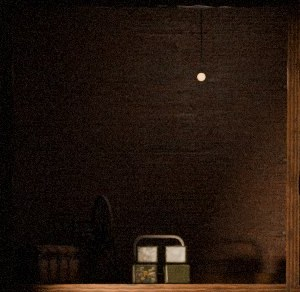
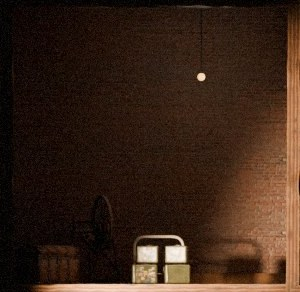
Play view: real brass name plates and padlocks from the render, desk-lamp light in the room pictures
The name plates and padlocks are now the 3D house's own, path-traced and cut out (render.py CUT= and SPRITE=padlock),
lit by their room instead of drawn on top. Room pictures re-rendered with the approved side view's desk lamp, and a
slight lens vignette over the house.

Claude-Session: https://claude.ai/code/session_0175Q8iFfSVh1jG5sAM4FTtJ

Changed region(s): [[0.09, 0.0308, 1.0, 1.0], [0.18, 0.8322, 0.27, 0.8938]]

diff --git a/src/app.js b/src/app.js
@@ -25,8 +25,8 @@ const in3d = () => !FLAT && dh.isReady();
 // The title and the shots between floors stay the live 3D photo camera. ?plates=0 turns the pictures off.
 const PL = { on: !FLAT && !PHOTO && !/[?&]plates=0/.test(location.search), ready: false, img: {} };
 if (PL.on) {
-  const want = ["shell", "wood", ...NAMES.flatMap((n) => [n + "_lit", n + "_dark"])]; let left = want.length;
-  for (const k of want) { const im = new Image(); im.onload = () => { if (--left === 0) PL.ready = true; }; im.onerror = () => { PL.on = false; }; im.src = k === "wood" ? "assets/tex/Wood049/Color.jpg" : `assets/plates/${k}.jpg`; PL.img[k] = im; }
+  const want = ["shell", "wood", "lock_shut", "lock_open", ...NAMES.flatMap((n) => [n + "_lit", n + "_dark", n + "_plate_lit", n + "_plate_dark"])]; let left = want.length;
+  for (const k of want) { const im = new Image(); im.onload = () => { if (--left === 0) PL.ready = true; }; im.onerror = () => { PL.on = false; }; im.src = k === "wood" ? "assets/tex/Wood049/Color.jpg" : `assets/plates/${k}.${/plate_|lock_/.test(k) ? "png" : "jpg"}`; PL.img[k] = im; }
 }
 const plates = () => PL.on && PL.ready && st.scene !== "title" && st.scene !== "floor";
 cv.width = VW * DPR; cv.height = VH * DPR;
@@ -649,7 +649,7 @@ function drawRoom(room, cx, cy, o) {
 // ---------- the photographed rooms ----------
 // One room's picture, lit or dark (cross-faded), turned over with the house; then what changes with the code, drawn
 // where the 3D house has it: doorways in the side posts, the ladder up and its hatch, the hole down, the lock, the page.
-const PS = 3.2 / 150, POST = 0.14 / PS, SLAB = 0.08 / PS, DOORH = 1.5 / PS, LADX = 0.8 / PS;
+const PS = 3.2 / 150, PLATEH = 20, POST = 0.14 / PS, SLAB = 0.08 / PS, DOORH = 1.5 / PS, LADX = 0.8 / PS;
 function drawPlate(room, cx, cy, o, gx, gy) {
   const lit = roomLit(room, o), shHere = st.shadow.mode !== "sleep" && st.shadow.id === room.id;
   ctx.save(); ctx.beginPath(); ctx.rect(cx, cy, CW, CH); ctx.clip();
@@ -685,18 +685,15 @@ function drawPlate(room, cx, cy, o, gx, gy) {
   if (up) { ladder(lx, cyT - (upJ ? SLAB + 2 : 0), fy, L); if (!upJ) planks(lx, cyT + 1, L); else { ctx.fillStyle = "rgba(4,3,6,0.9)"; ctx.fillRect(lx - 14, cy - 1, 28, SLAB + 1); } }
   if (room.down) { ctx.fillStyle = "rgba(4,3,6,0.9)"; ctx.fillRect(lx - 14, fy, 28, SLAB + 1); if (downJ) ladder(lx, fy - 16, cy + CH + 1, L, true); else planks(lx, fy - 3, L); }
   ctx.restore();
-  // the brass name plate on the floor's front edge (as on the 3D house: it stays put when the room turns over)
-  { ctx.save(); ctx.font = `9px "IM Fell English SC", Georgia, serif`; const tw = ctx.measureText(room.name).width + 14, h = 11, h2 = [...room.name].reduce((a, ch) => (a * 31 + ch.charCodeAt(0)) % 9973, 7);
-    const nx = cx + CW / 2 + ((h2 >> 3) % 9 - 4) * 0.09 / PS - tw / 2, ny = cy + CH - 0.17 / PS - h / 2, k = 0.3 + 0.35 * L; // (lit by the room, not a label on the screen)
-    ctx.translate(nx + tw / 2, ny + h / 2); ctx.rotate(((room.name.length * 5) % 7 - 3) * 0.012); ctx.translate(-tw / 2, -h / 2);
-    const g = ctx.createLinearGradient(0, 0, 0, h); g.addColorStop(0, shade([200, 178, 120], k)); g.addColorStop(0.5, shade([150, 128, 78], k)); g.addColorStop(1, shade([96, 78, 42], k));
-    ctx.fillStyle = "rgba(0,0,0,0.5)"; ctx.fillRect(1, 1.5, tw, h); ctx.fillStyle = g; ctx.beginPath(); ctx.roundRect(0, 0, tw, h, 1.5); ctx.fill();
-    ctx.fillStyle = "rgba(30,22,10,0.8)"; for (const sx of [3, tw - 3]) { ctx.beginPath(); ctx.arc(sx, h / 2, 1, 0, 7); ctx.fill(); }
-    ctx.textAlign = "center"; ctx.fillStyle = "rgba(255,240,200,0.25)"; ctx.fillRect(2, 1, tw - 4, 0.8);
-    ctx.fillStyle = `rgba(48,34,14,${0.75 + 0.2 * k})`; ctx.fillText(room.name, tw / 2, h - 2.6); ctx.restore(); }
-  if (room.lines.some((l) => l.kind === "lock")) {
-    const px = cx + CW * 0.3, py = cy + CH * 0.42, col = st.unlocked ? GRN : RED;
-    glows.push(() => padlock(px, py, col, 8 + 4 * Math.sin(st.t * 4))); padlock(px, py, col, 6);
+  // the brass name plate on the floor's front edge: the 3D house's own, path-traced and cut out, lit by its room
+  // (it stays put when the room turns over)
+  ctx.drawImage(PL.img[room.name + "_plate_dark"], cx, cy + CH - PLATEH, CW, PLATEH);
+  if (lit > 0) { ctx.globalAlpha = lit; ctx.drawImage(PL.img[room.name + "_plate_lit"], cx, cy + CH - PLATEH, CW, PLATEH); ctx.globalAlpha = 1; }
+  if (room.lines.some((l) => l.kind === "lock")) { // the 3D house's brass padlock on the back wall (path-traced), with its enamel's glow
+    const op = st.unlocked, px = cx + CW / 2 + 0.5 / PS, py = cy + CH - (op ? 1.273 : 1.225) / PS, w = 0.7 / PS, col = op ? "120,230,140" : "255,80,64";
+    ctx.save(); ctx.globalCompositeOperation = "lighter"; const g = ctx.createRadialGradient(px, py, 2, px, py, 26); g.addColorStop(0, `rgba(${col},${0.35 + 0.15 * Math.sin(st.t * 4)})`); g.addColorStop(1, `rgba(${col},0)`);
+    ctx.fillStyle = g; ctx.fillRect(px - 28, py - 28, 56, 56); ctx.restore();
+    ctx.drawImage(PL.img[op ? "lock_open" : "lock_shut"], px - w / 2, py - w / 2, w, w);
   }
   if (st.page.id === room.id && !st.page.got) {
     const px = cx + CW * 0.36, py = fy - 4, k = 0.6 + 0.4 * Math.sin(st.t * 3 + 1);
@@ -736,6 +733,8 @@ function plateLight() {
   if (st.scene !== "end") { const g = ctx.createRadialGradient(px, py, 0, px, py, 90); g.addColorStop(0, `rgba(${hot},0.32)`); g.addColorStop(1, `rgba(${hot},0)`); ctx.fillStyle = g; ctx.fillRect(px - 100, py - 100, 200, 200); }
   if (f > 0) { ctx.fillStyle = `rgba(170,190,240,${0.35 * f})`; ctx.fillRect(HX, HY, HW, HH); }
   ctx.restore();
+  // the lens: corners a little darker, as in the photographed still (the room pictures are cut without it)
+  const v = ctx.createRadialGradient(HCX, HCY, 120, HCX, HCY, 520); v.addColorStop(0, "rgba(0,0,0,0)"); v.addColorStop(1, "rgba(0,0,0,0.32)"); ctx.fillStyle = v; ctx.fillRect(HX, HY, HW, HH);
 }
 // a padlock hanging on the back wall: shackle, body, keyhole. Open (green) lifts its shackle.
 function padlock(x, y, col, blur) {

diff --git a/test/page.test.js b/test/page.test.js
@@ -972,19 +972,19 @@ test("the photographed house: each room's picture sits in its slot, slides with 
   try {
     await page.waitForFunction(() => { const D = window.__dh; D.begin(); return D.plates(); }, null, { timeout: 30000 });
     const grab = () => page.evaluate(() => {
-      const D = window.__dh, P = CanvasRenderingContext2D.prototype, di = P.drawImage, ft = P.fillText, imgs = [], txt = [];
-      P.drawImage = function (im, ...a) { const m = this.getTransform(); if (im && im.src && /plates\/\w+_(lit|dark)\.jpg/.test(im.src)) imgs.push({ k: im.src.match(/plates\/(\w+)_(lit|dark)/).slice(1), x: m.a * a[0] + m.e, y: m.d * a[1] + m.f, sy: m.d }); return di.call(this, im, ...a); };
+      const D = window.__dh, P = CanvasRenderingContext2D.prototype, di = P.drawImage, ft = P.fillText, imgs = [], txt = [], plates = [];
+      P.drawImage = function (im, ...a) { const m = this.getTransform(); if (im && im.src && /plates\/\w+_plate_dark\.png/.test(im.src)) plates.push(im.src.match(/plates\/(\w+)_plate_dark/)[1]); if (im && im.src && /plates\/\w+_(lit|dark)\.jpg/.test(im.src)) imgs.push({ k: im.src.match(/plates\/(\w+)_(lit|dark)/).slice(1), x: m.a * a[0] + m.e, y: m.d * a[1] + m.f, sy: m.d }); return di.call(this, im, ...a); };
       P.fillText = function (t, ...a) { txt.push(String(t)); return ft.call(this, t, ...a); };
       try { D.render(); } finally { P.drawImage = di; P.fillText = ft; }
       const st = D.st(), k = document.getElementById("game").width / 960;
-      return { imgs: imgs.map((i) => ({ ...i, x: i.x / k, y: i.y / k, sy: i.sy / k })), txt, g: st.g.map((r) => r.map((x) => ({ id: x.id, name: x.name, l: x.l }))) };
+      return { imgs: imgs.map((i) => ({ ...i, x: i.x / k, y: i.y / k, sy: i.sy / k })), txt, plates, g: st.g.map((r) => r.map((x) => ({ id: x.id, name: x.name, l: x.l }))) };
     });
     const at = (f, name) => f.imgs.filter((i) => i.k[0] === name && i.k[1] === "dark").map((i) => [Math.round(i.x), Math.round(i.y), Math.sign(i.sy)]);
     const a = await grab();
     for (let y = 0; y < 3; y++) for (let x = 0; x < 4; x++) {
       const r = a.g[y][x], cell = [44 + x * 150, 74 + y * 146];
       assert.deepEqual(at(a, r.name), [[cell[0], cell[1], 1]], `${r.name}'s picture is in its own slot`);
-      assert.equal(a.txt.filter((t) => t === r.name).length, 1, `${r.name}'s plate is written once`);
+      assert.equal(a.plates.filter((t) => t === r.name).length, 1, `${r.name}'s name plate is drawn once`);
     }
     // a row slides east: once it settles, each of its rooms' pictures is one slot along (the end one wraps round)
     const row = await page.evaluate(() => { const D = window.__dh, st = D.st(), p = D.find(st.g, st.player.id), li = D.byId(st.g, st.player.id).lines.findIndex((l) => l.kind === "row"); if (li < 0) return null; D.edit(li, 1); D.tick(1 / 60, 150); return p.y; });

diff --git a/src/dollhouse.js b/src/dollhouse.js
@@ -352,7 +352,7 @@ function buildVary(g, room, v) {
 function boards(parent, y) { for (const dz of [-0.2, 0, 0.2]) { const b = box(0.74, 0.04, 0.17, M.ladder, LADDER_X, y, -0.25 + dz, parent); b.rotation.y = dz * 0.15; } }
 // a brass padlock hung on the back wall; its enamel badge is red while locked, green once open
 function padlock(open) {
-  const g = new THREE.Group();
+  const g = new THREE.Group(); g.name = "padlock";
   const body = box(0.24, 0.2, 0.08, M.brass, 0, 0, 0, g, true);
   const badge = new THREE.Mesh(new THREE.CircleGeometry(0.055, 20), new THREE.MeshStandardMaterial({ color: open ? 0x2f8a3a : 0xb3261e, emissive: open ? 0x2f8a3a : 0xb3261e, emissiveIntensity: 0.6, roughness: 0.3 }));
   badge.position.set(0, 0, 0.041); g.add(badge);

diff --git a/tools/render/render.py b/tools/render/render.py
@@ -110,25 +110,42 @@ sc.render.engine = 'CYCLES'; sc.cycles.device = 'CPU'; sc.cycles.samples = S; sc
 sc.cycles.max_bounces = 6; sc.render.resolution_x = W; sc.render.resolution_y = H; sc.render.resolution_percentage = 100
 sc.view_settings.view_transform = 'AgX'; sc.view_settings.look = 'AgX - Medium High Contrast'; sc.view_settings.exposure = 0
 sc.render.filepath = out; sc.render.threads_mode = 'AUTO'
-if os.environ.get('SPRITE'):  # SPRITE=1: the peg doll alone, cut out (RGBA, the rest of the house kept as a holdout for its light
-    # and shadow), straight on and turned: out_front.png, out_right.png, out_left.png, out_back.png (the turns figure() uses)
+if os.environ.get('SPRITE'):  # one thing alone, cut out (RGBA; the rest of the house stays as a holdout, for its light and
+    # shadow). SPRITE=doll or shadow: the peg doll or the hooded thing, straight on and turned (out_front/right/left/back.png,
+    # the turns figure() uses); SPRITE=padlock: the first padlock, straight on (out.png)
     def kids(o): return [o] + [k for c in o.children for k in kids(c)]
-    roots = [o for o in sc.objects if o.name.split('.')[0] == 'fig' and (o.parent is None or o.parent.name.split('.')[0] != 'fig')]
+    def base(o): return o.name.split('.')[0]
     def box(r):
         pts = [o.matrix_world @ mathutils.Vector(v) for o in kids(r) if o.type == 'MESH' for v in o.bound_box]
         return mathutils.Vector([min(p[i] for p in pts) for i in range(3)]), mathutils.Vector([max(p[i] for p in pts) for i in range(3)])
-    doll = min((r for r in roots if any(o.type == 'MESH' for o in kids(r))), key=lambda r: (box(r)[1] - box(r)[0]).z)
-    mine = {o.name for o in kids(doll)}
+    kind = os.environ['SPRITE']; want = 'padlock' if kind == 'padlock' else 'fig'
+    roots = [o for o in sc.objects if base(o) == want and (o.parent is None or base(o.parent) != want) and any(k.type == 'MESH' for k in kids(o))]
+    hgt = lambda r: (box(r)[1] - box(r)[0]).z
+    one = roots[0] if kind == 'padlock' else (min if kind in ('doll', '1') else max)(roots, key=hgt)
+    mine = {o.name for o in kids(one)}
     for o in sc.objects:
         if o.type == 'MESH' and o.name not in mine: o.is_holdout = True
     sc.render.film_transparent = True; sc.render.image_settings.color_mode = 'RGBA'; sc.render.image_settings.file_format = 'PNG'
-    lo, hi = box(doll); ctr = (lo + hi) / 2; wd = float(os.environ.get('SPRITE_W', '1.5'))
+    lo, hi = box(one); ctr = (lo + hi) / 2; wd = float(os.environ.get('SPRITE_W', '0.7' if kind == 'padlock' else '1.5' if kind in ('doll', '1') else '2.2'))
     c.data.type = 'ORTHO'; c.data.ortho_scale = wd; c.data.sensor_fit = 'HORIZONTAL'; c.data.dof.use_dof = False
-    c.rotation_mode = 'XYZ'; c.rotation_euler = (math.pi / 2, 0, 0); c.location = (ctr.x, -40, lo.z - 0.05 + wd / 2)
-    doll.rotation_mode = 'XYZ'; z0 = doll.rotation_euler.z
-    for tag, a in (('front', 0), ('right', 0.8 * math.pi / 2), ('left', -0.8 * math.pi / 2), ('back', math.pi)):
-        doll.rotation_euler.z = z0 + a; sc.render.filepath = out.replace('.png', '_' + tag + '.png')
-        t0 = time.time(); bpy.ops.render.render(write_still=True); print('sprite', tag, round(time.time() - t0), 's', flush=True)
-    print('sprite at', tuple(round(v, 3) for v in ctr), 'base z', round(lo.z, 3), flush=True)
+    c.rotation_mode = 'XYZ'; c.rotation_euler = (math.pi / 2, 0, 0); c.location = (ctr.x, -40, ctr.z if kind == 'padlock' else lo.z - 0.05 + wd / 2)
+    turns = (('', 0),) if kind == 'padlock' else (('_front', 0), ('_right', 0.8 * math.pi / 2), ('_left', -0.8 * math.pi / 2), ('_back', math.pi))
+    one.rotation_mode = 'XYZ'; z0 = one.rotation_euler.z
+    for tag, a in turns:
+        one.rotation_euler.z = z0 + a; sc.render.filepath = out.replace('.png', tag + '.png')
+        t0 = time.time(); bpy.ops.render.render(write_still=True); print('sprite', kind, tag, round(time.time() - t0), 's', flush=True)
+    print('sprite at', tuple(round(v, 3) for v in ctr), 'base z', round(lo.z, 3), 'size', tuple(round(v, 3) for v in hi - lo), flush=True)
+elif os.environ.get('CUT'):  # CUT=name: render once without those objects (out.png), then them alone, cut out, lit and shadowed
+    # by the house around them (out_cut.png: RGBA, the rest kept as a holdout)
+    def kids(o): return [o] + [k for c in o.children for k in kids(c)]
+    want = os.environ['CUT']; cut = {k.name for o in sc.objects if o.name.split('.')[0] == want for k in kids(o)}
+    for o in sc.objects:
+        if o.name in cut: o.hide_render = True
+    t0 = time.time(); bpy.ops.render.render(write_still=True); print('render', round(time.time() - t0), 's', flush=True)
+    for o in sc.objects:
+        if o.name in cut: o.hide_render = False
+        elif o.type == 'MESH': o.is_holdout = True
+    sc.render.film_transparent = True; sc.render.image_settings.color_mode = 'RGBA'; sc.render.filepath = out.replace('.png', '_cut.png')
+    t0 = time.time(); bpy.ops.render.render(write_still=True); print('cut', round(time.time() - t0), 's', flush=True)
 else:
     t0 = time.time(); bpy.ops.render.render(write_still=True); print('render', round(time.time() - t0), 's', flush=True)

diff --git a/tools/render/plates.py b/tools/render/plates.py
@@ -13,3 +13,9 @@ for tag, src in (('lit', lit), ('dark', dark)):
         x, y = i % 4, i // 4; x0, y0 = 2 * (44 + x * 150), 2 * (74 + y * 146)
         im.crop((x0, y0, x0 + 300, y0 + 292)).save(os.path.join(out, f'{n}_{tag}.jpg'), quality=88)
     os.remove(tmp)
+    cut = src.replace('.png', '_cut.png')  # render.py CUT=nameplate: the brass name plates alone, cut out (bottom 40px of each room)
+    if os.path.exists(cut):
+        ci = Image.open(cut)
+        for i, n in enumerate(names):
+            x, y = i % 4, i // 4; x0, y1 = 2 * (44 + x * 150), 2 * (74 + y * 146) + 292
+            ci.crop((x0, y1 - 40, x0 + 300, y1)).save(os.path.join(out, f'{n}_plate_{tag}.png'), optimize=True)
